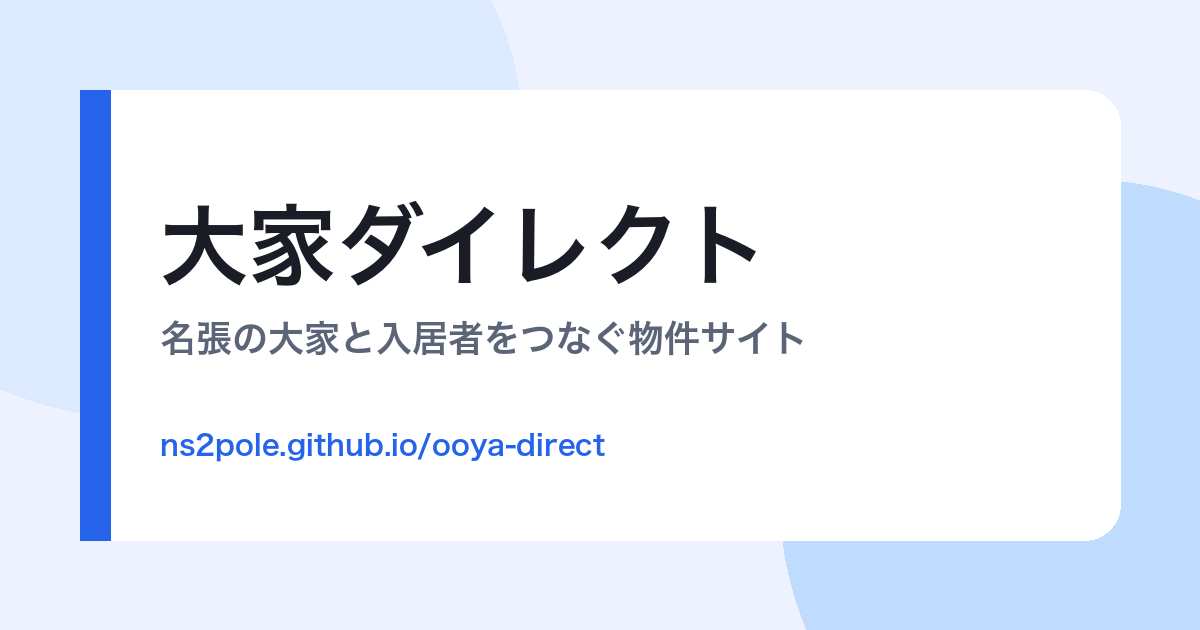
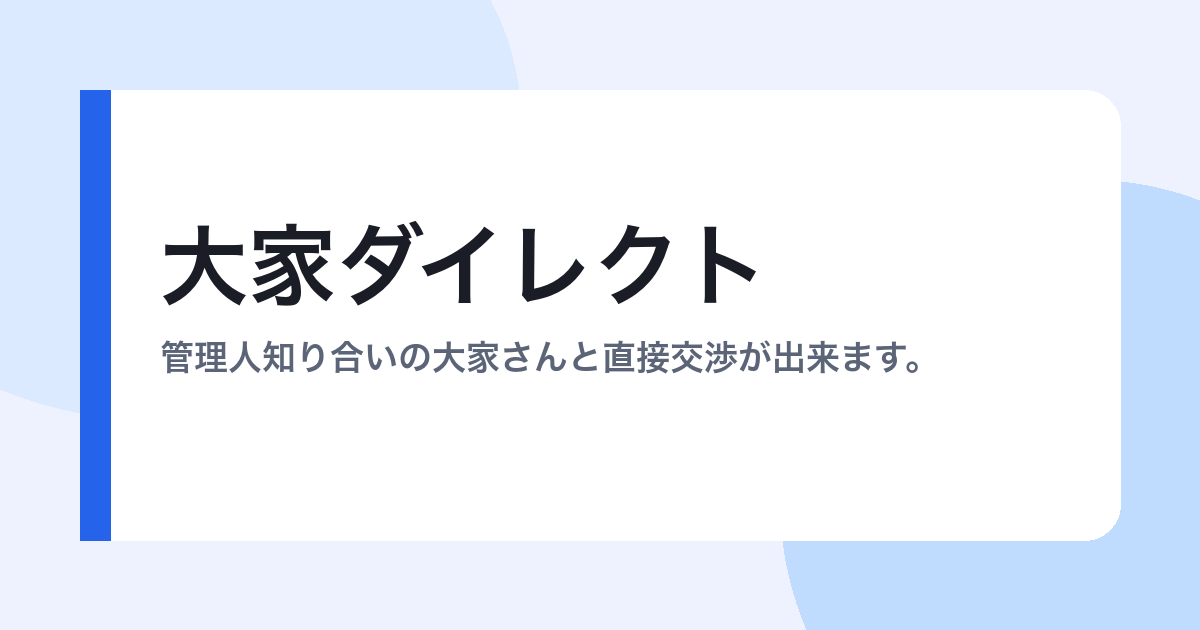
OG画像のURL表記を外し、プレビュー文言を更新する

diff --git a/web/index.html b/web/index.html
@@ -7,7 +7,7 @@
     <title>大家ダイレクト</title>
     <meta
       name="description"
-      content="名張の大家と入居者をつなぐ物件サイト。空き家・賃貸情報を大家ダイレクトで。"
+      content="管理人知り合いの大家さんと直接交渉が出来ます。"
     />
     <!-- LINE / SNS のリンクプレビュー用（絶対URL必須） -->
     <meta property="og:type" content="website" />
@@ -15,12 +15,12 @@
     <meta property="og:title" content="大家ダイレクト" />
     <meta
       property="og:description"
-      content="名張の大家と入居者をつなぐ物件サイト。空き家・賃貸情報を大家ダイレクトで。"
+      content="管理人知り合いの大家さんと直接交渉が出来ます。"
     />
     <meta property="og:url" content="https://ns2pole.github.io/ooya-direct/" />
     <meta
       property="og:image"
-      content="https://ns2pole.github.io/ooya-direct/og-image.png"
+      content="https://ns2pole.github.io/ooya-direct/og-image.png?v=2"
     />
     <meta property="og:image:width" content="1200" />
     <meta property="og:image:height" content="630" />
@@ -28,11 +28,11 @@
     <meta name="twitter:title" content="大家ダイレクト" />
     <meta
       name="twitter:description"
-      content="名張の大家と入居者をつなぐ物件サイト。空き家・賃貸情報を大家ダイレクトで。"
+      content="管理人知り合いの大家さんと直接交渉が出来ます。"
     />
     <meta
       name="twitter:image"
-      content="https://ns2pole.github.io/ooya-direct/og-image.png"
+      content="https://ns2pole.github.io/ooya-direct/og-image.png?v=2"
     />
   </head>
   <body>
